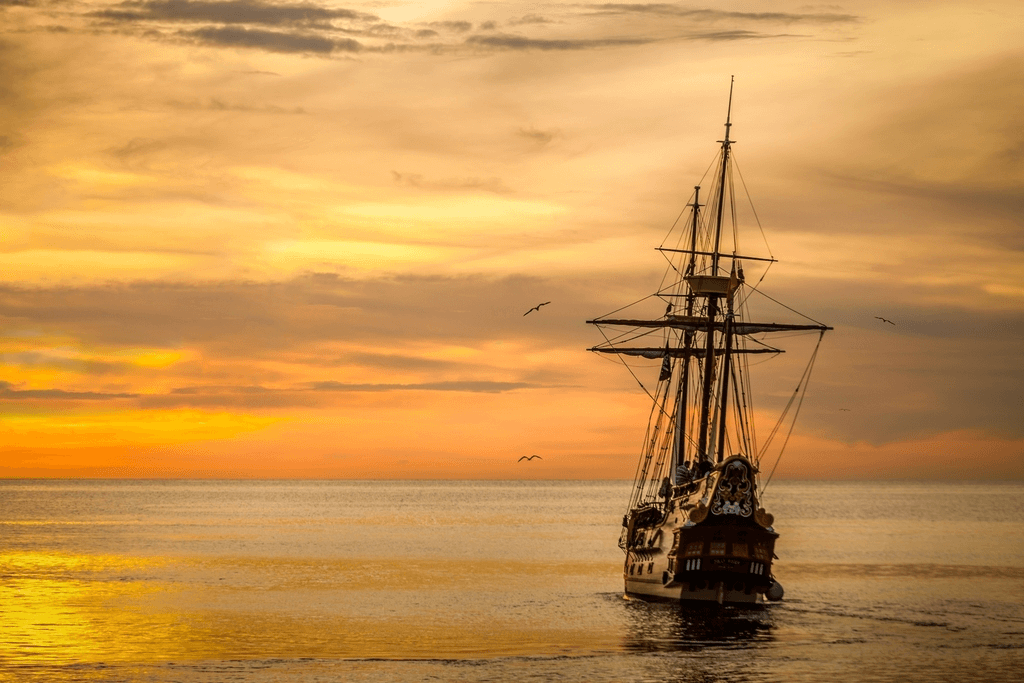
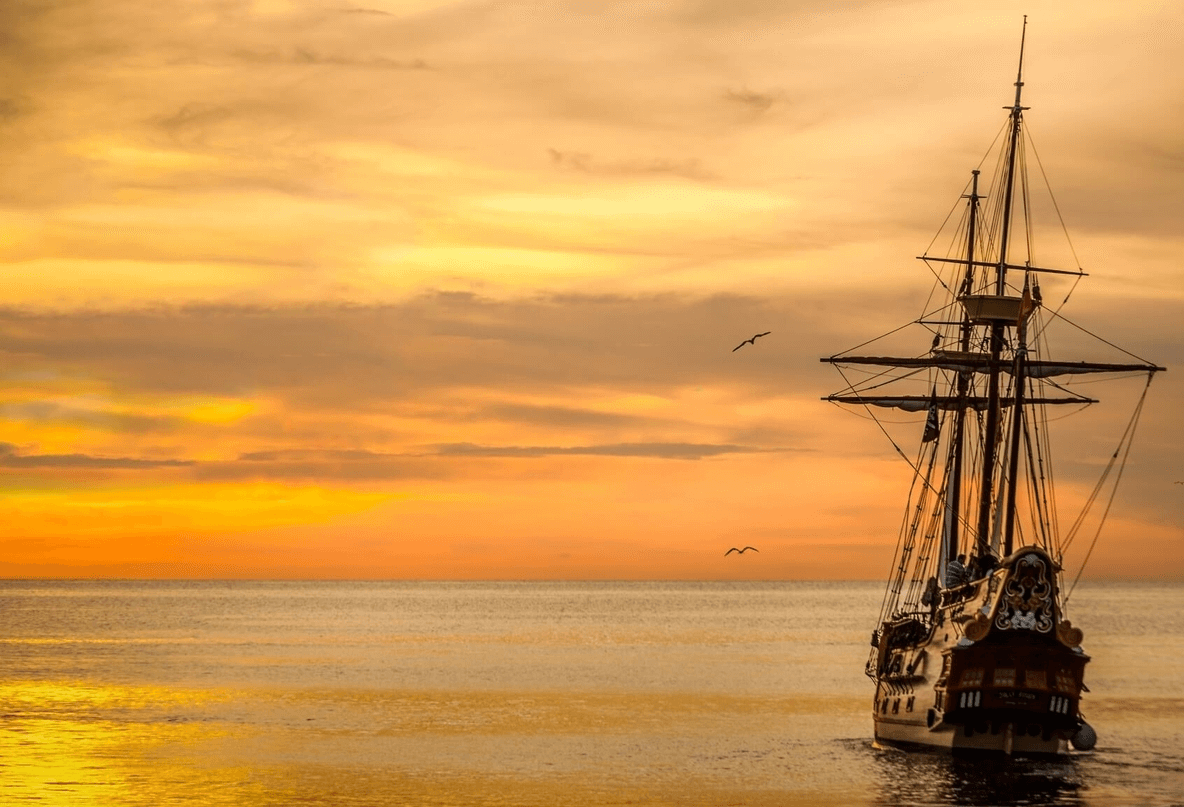
Optimización de Bg-home

diff --git a/index.html b/index.html
@@ -55,7 +55,7 @@
         <div id="carousel" class="home-carousel carousel slide" data-ride="carousel" data-pause="false" >
             <div class="carousel-inner">
                 <div class="carousel-background">
-                    <img src="assets/images/background-home.jpg" alt="Home">
+                    <img src="assets/images/background-home.png" alt="Home">
                 </div>
                 <div class="carousel-item active">
                         <div class="carousel-containerPhrase">
